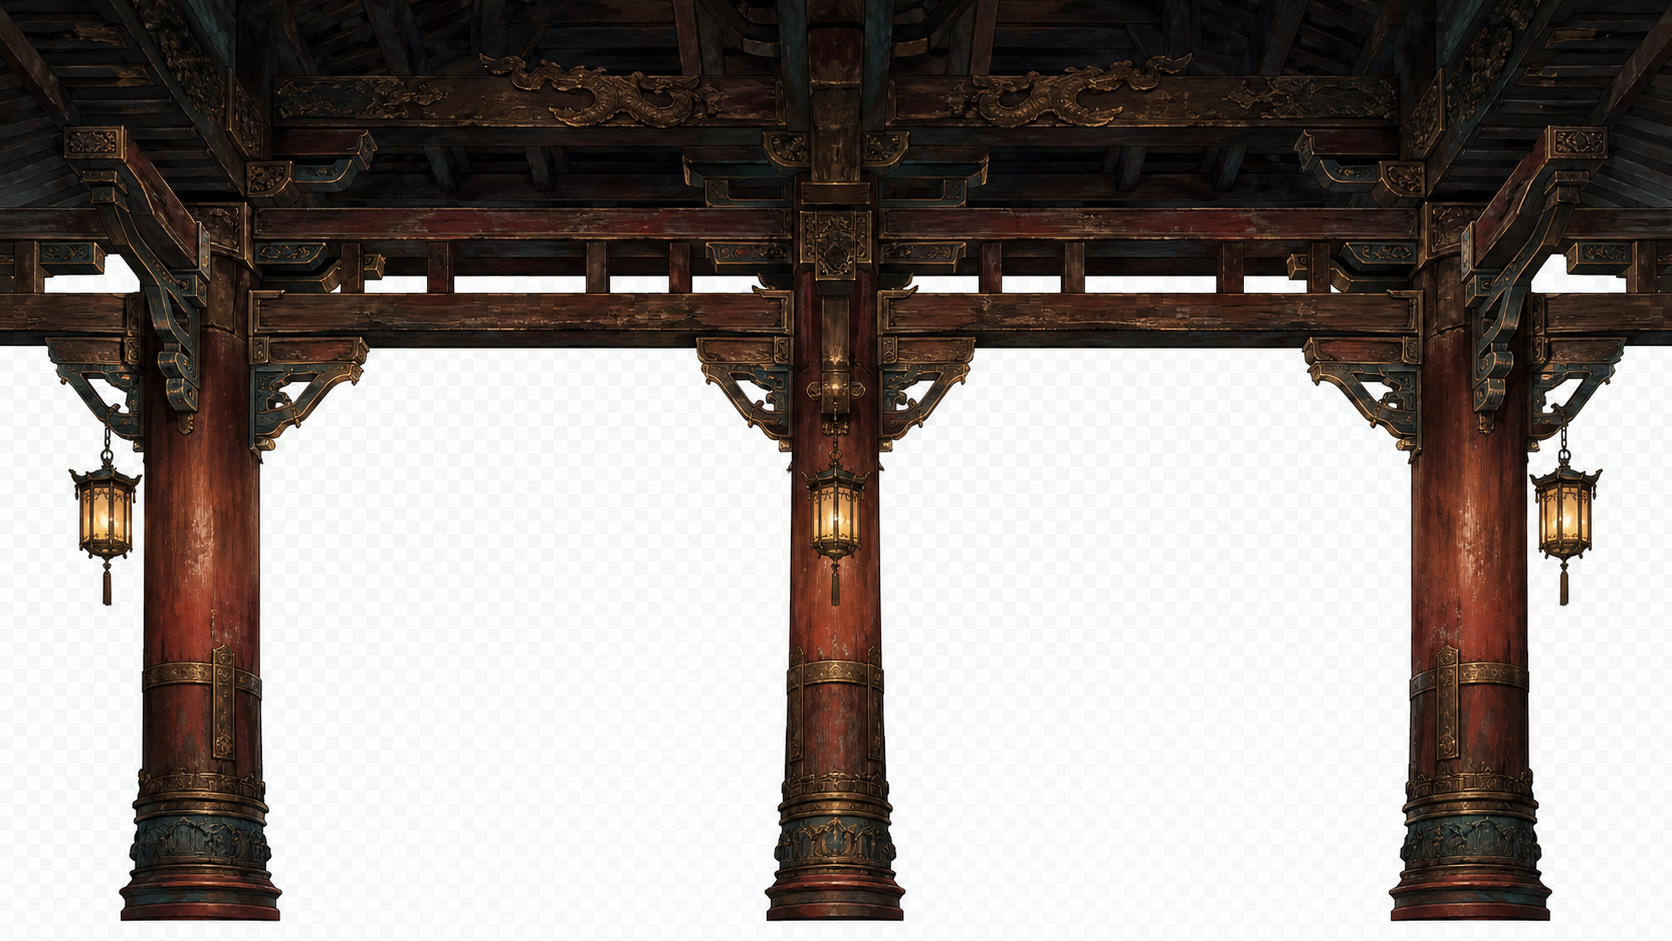
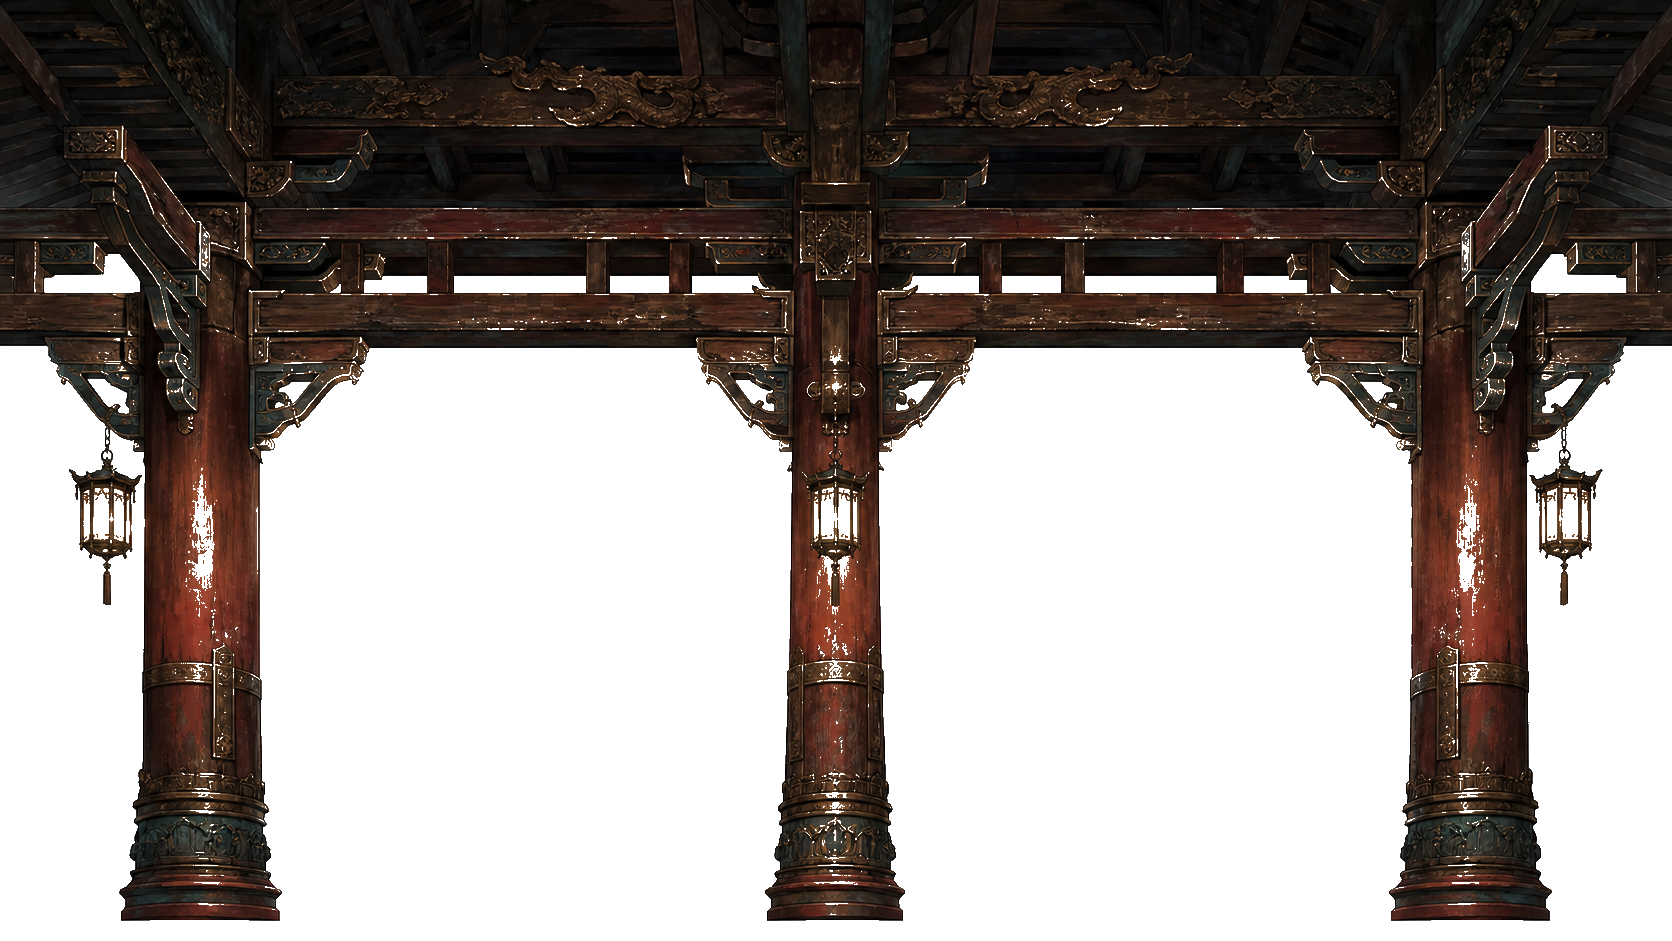
fix: restore pillars as transparent overlay, brightness-mask alpha extraction

diff --git a/tests/juyiting-modular-layer-assets.test.js b/tests/juyiting-modular-layer-assets.test.js
@@ -19,7 +19,7 @@ const pngInfo = (path) => {
 
 describe('Juyiting modular layer assets', () => {
   it('declares the generated modular environment layers', () => {
-    expect(HALL_MODULAR_ENVIRONMENT_LAYERS.map(layer => layer.id)).to.deep.equal(['hall-wall-back', 'hall-floor'])
+    expect(HALL_MODULAR_ENVIRONMENT_LAYERS.map(layer => layer.id)).to.deep.equal(['hall-wall-back', 'hall-floor', 'hall-pillars'])
 
     HALL_MODULAR_ENVIRONMENT_LAYERS.forEach(layer => {
       expect(layer.kind).to.equal('environment')
@@ -80,4 +80,5 @@ describe('Juyiting modular layer assets', () => {
     })
   })
 })
+
 

diff --git a/src/game/hallModularLayers.js b/src/game/hallModularLayers.js
@@ -22,6 +22,16 @@
     sourceW: 1672,
     sourceH: 527,
     kind: 'environment'
+  },
+  {
+    id: 'hall-pillars',
+    resourceName: 'juyiting-modular-hall-pillars',
+    src: '/juyiting/images/modular/hall-pillars-v1.png',
+    depth: 6,
+    defaultX: 0,
+    defaultY: 0,
+    defaultScale: 1,
+    kind: 'environment'
   }
 ]
 
